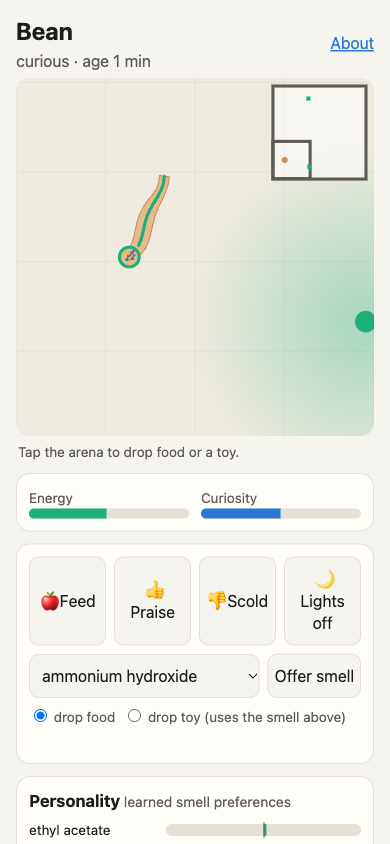
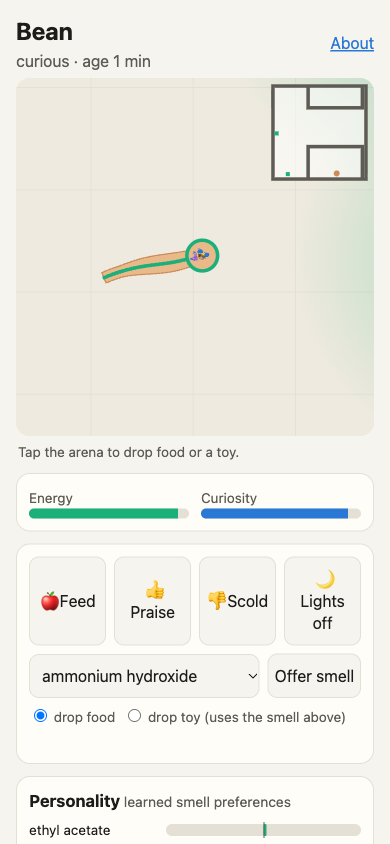
Play: minimap view window wraps on the torus; phone screenshot

diff --git a/play/app.js b/play/app.js
@@ -127,7 +127,9 @@
     // minimap: whole arena, view window, sources, pet
     const m = W * 0.26, mx = W - m - 8, my = 8, ms = m / S.arena, md = (v) => ((v % A) + A) % A, M = (p) => [mx + md(p[0]) * ms, my + m - md(p[1]) * ms];
     ctx.fillStyle = "rgba(255,255,255,.55)"; ctx.fillRect(mx, my, m, m); ctx.strokeStyle = css("--ink2"); ctx.strokeRect(mx, my, m, m);
-    { const [a, b] = M(cam); ctx.strokeRect(a - half * ms, b - half * ms, VIEW * ms, VIEW * ms); }
+    { const [a, b] = M(cam); ctx.save(); ctx.beginPath(); ctx.rect(mx, my, m, m); ctx.clip();   // view window, wrapped on the torus
+      for (const dx of [-m, 0, m]) for (const dy of [-m, 0, m]) ctx.strokeRect(a - half * ms + dx, b - half * ms + dy, VIEW * ms, VIEW * ms);
+      ctx.restore(); }
     for (const s of S.sources) if (s.active) { const [a, b] = M(s.pos); ctx.fillStyle = s.kind === "food" ? css("--food") : s.kind === "toy" ? css("--toy") : css("--toxic"); ctx.fillRect(a - 2, b - 2, 4, 4); }
     { const [a, b] = M(hd); ctx.fillStyle = css("--skin2"); ctx.beginPath(); ctx.arc(a, b, 3, 0, 7); ctx.fill(); }
     drawKC();
